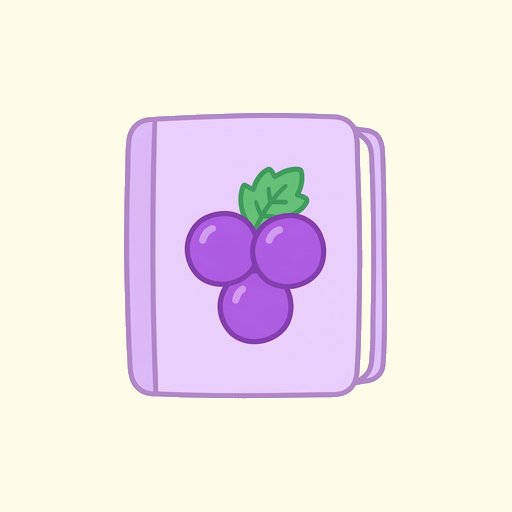
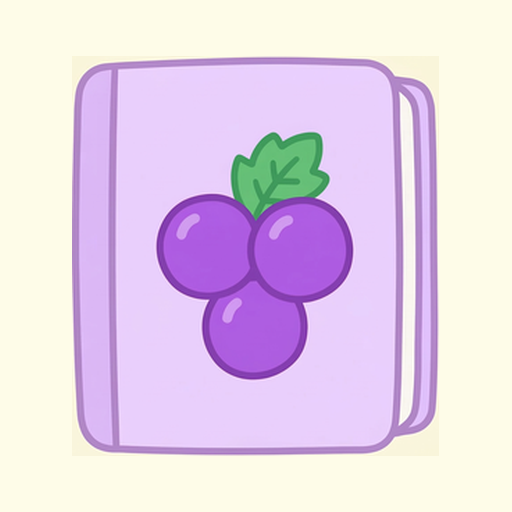
release: v0.8.0 — 아이콘/UX 안정성 + 권한 강화 (#128)
## Summary
- 브라우저 탭 파비콘 가시성 개선 (투명 배경 포도책 아이콘)
- 이미지 배경색 앱 배경색 통일
- 로딩/에러 화면 포도 아이콘 다크모드 대응
- PWA 아이콘 포도책 크기 확대
- UX 안정성 정비 — 글로벌 에러 toast, 스켈레톤 UI, 공통 스피너
- 가구 관리자 권한 확장 (타인 거래 수정/삭제)
- 다크모드 색상 팔레트 완성
- iOS Safari date input 오버플로 수정

## Included PRs
- #115: 가구 관리자 권한 확장
- #120: UX 안정성 정비
- #121: iOS Safari date input 수정
- #122: 브라우저 탭 파비콘 가시성 개선
- #124: 이미지 배경색 통일
- #126: 로딩 화면 포도 아이콘 투명 배경
- #127: PWA 아이콘 포도책 크기 확대

## Test plan
- [ ] 브라우저 탭 파비콘 확인
- [ ] 다크모드 로딩/에러 화면 확인
- [ ] PWA 아이콘 iOS/Android 확인
- [ ] 가구 관리자 거래 수정/삭제 테스트

🤖 Generated with [Claude Code](https://claude.com/claude-code)

---------

diff --git a/frontend/src/components/ProtectedRoute.tsx b/frontend/src/components/ProtectedRoute.tsx
@@ -62,7 +62,7 @@ export default function ProtectedRoute() {
   if (!hasInitialized) {
     return (
       <div className="min-h-screen bg-[var(--surface)] flex flex-col items-center justify-center gap-3">
-        <img src="/pwa-192x192.png" alt="포도가계부" className="w-12 h-12" />
+        <img src="/logo-transparent-192.png" alt="포도가계부" className="w-12 h-12" />
         <div className="animate-spin rounded-full border-b-2 border-grape-600 w-6 h-6" />
       </div>
     )
@@ -72,7 +72,7 @@ export default function ProtectedRoute() {
   if (initError) {
     return (
       <div className="min-h-screen bg-[var(--surface)] flex flex-col items-center justify-center gap-4 p-4">
-        <img src="/pwa-192x192.png" alt="포도가계부" className="w-12 h-12" />
+        <img src="/logo-transparent-192.png" alt="포도가계부" className="w-12 h-12" />
         <p className="text-sm text-[var(--text-tertiary)]">서버에 연결할 수 없습니다</p>
         <button
           onClick={() => {
